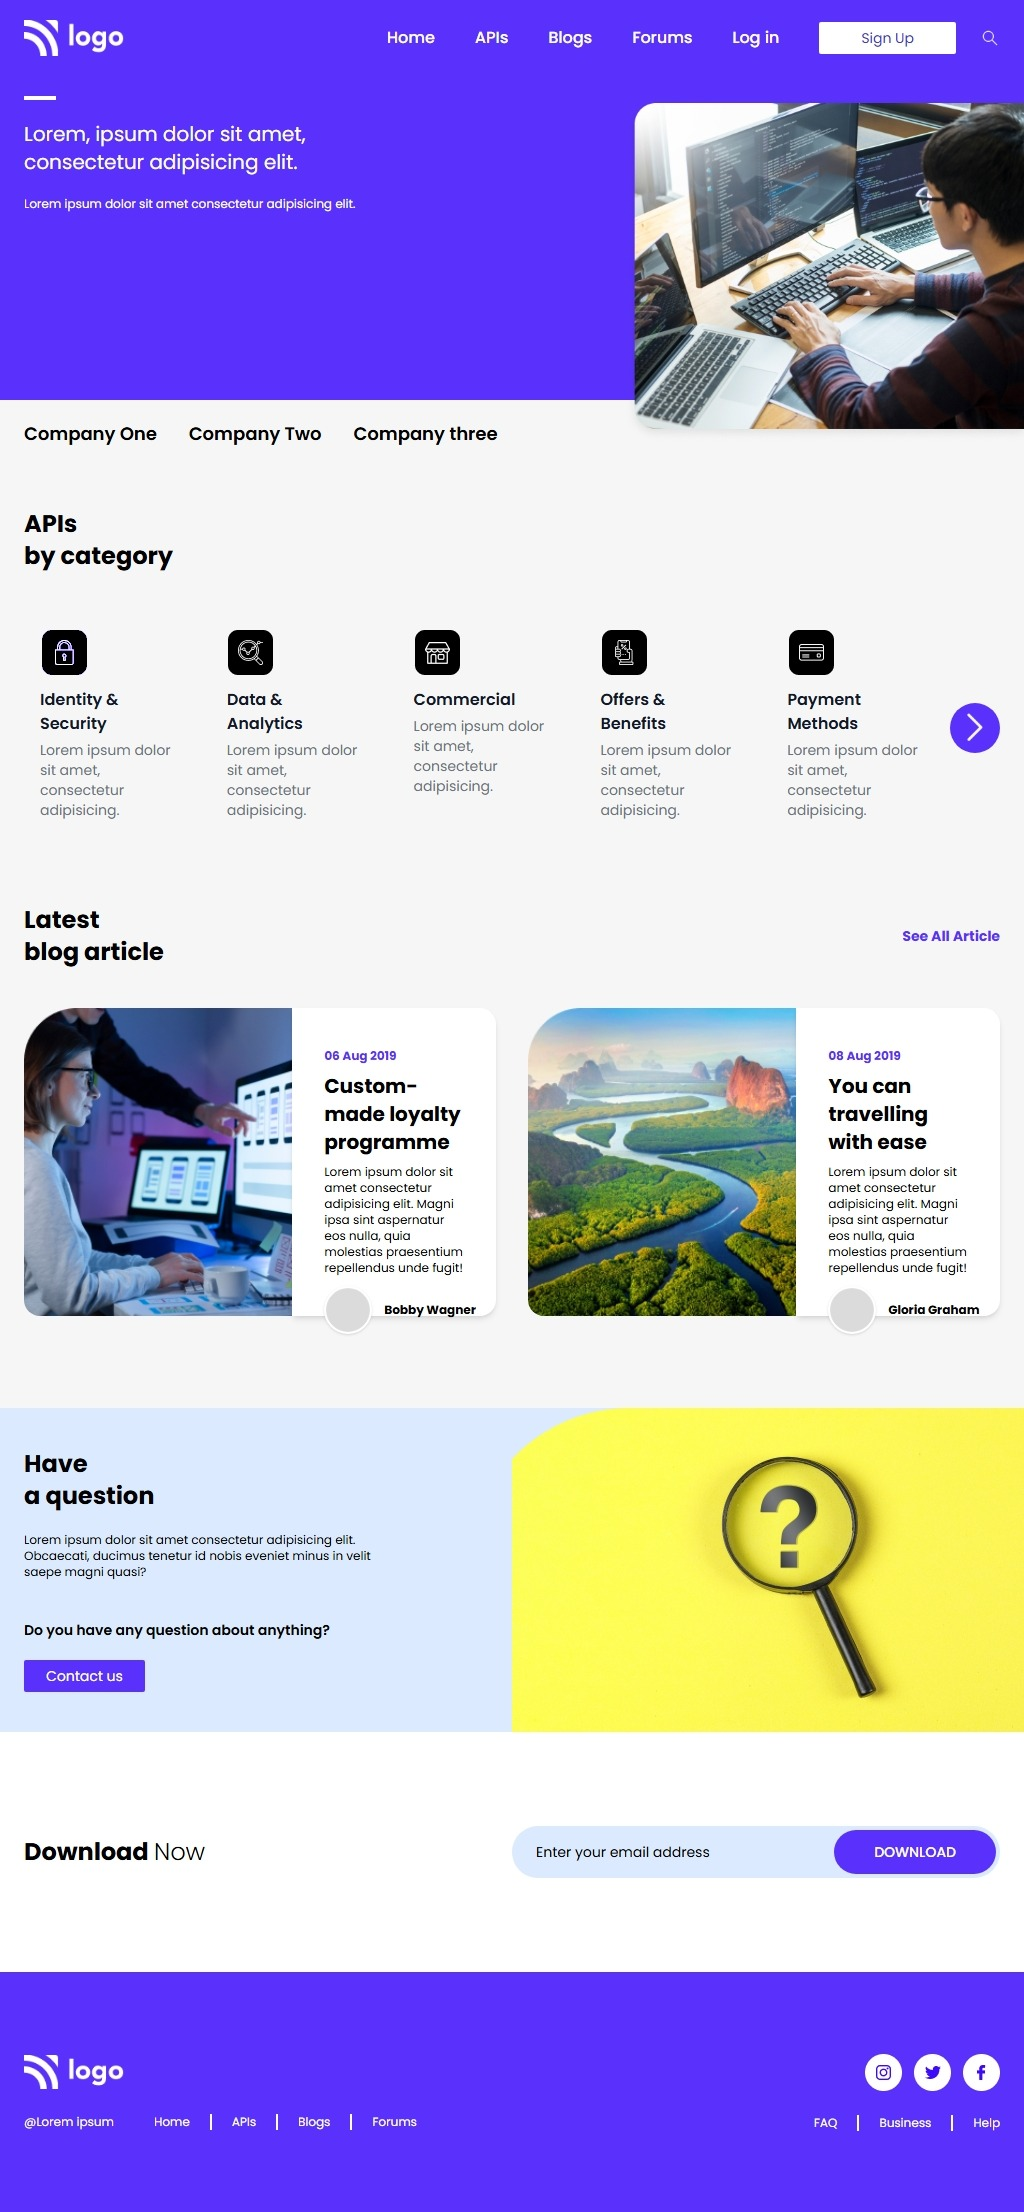
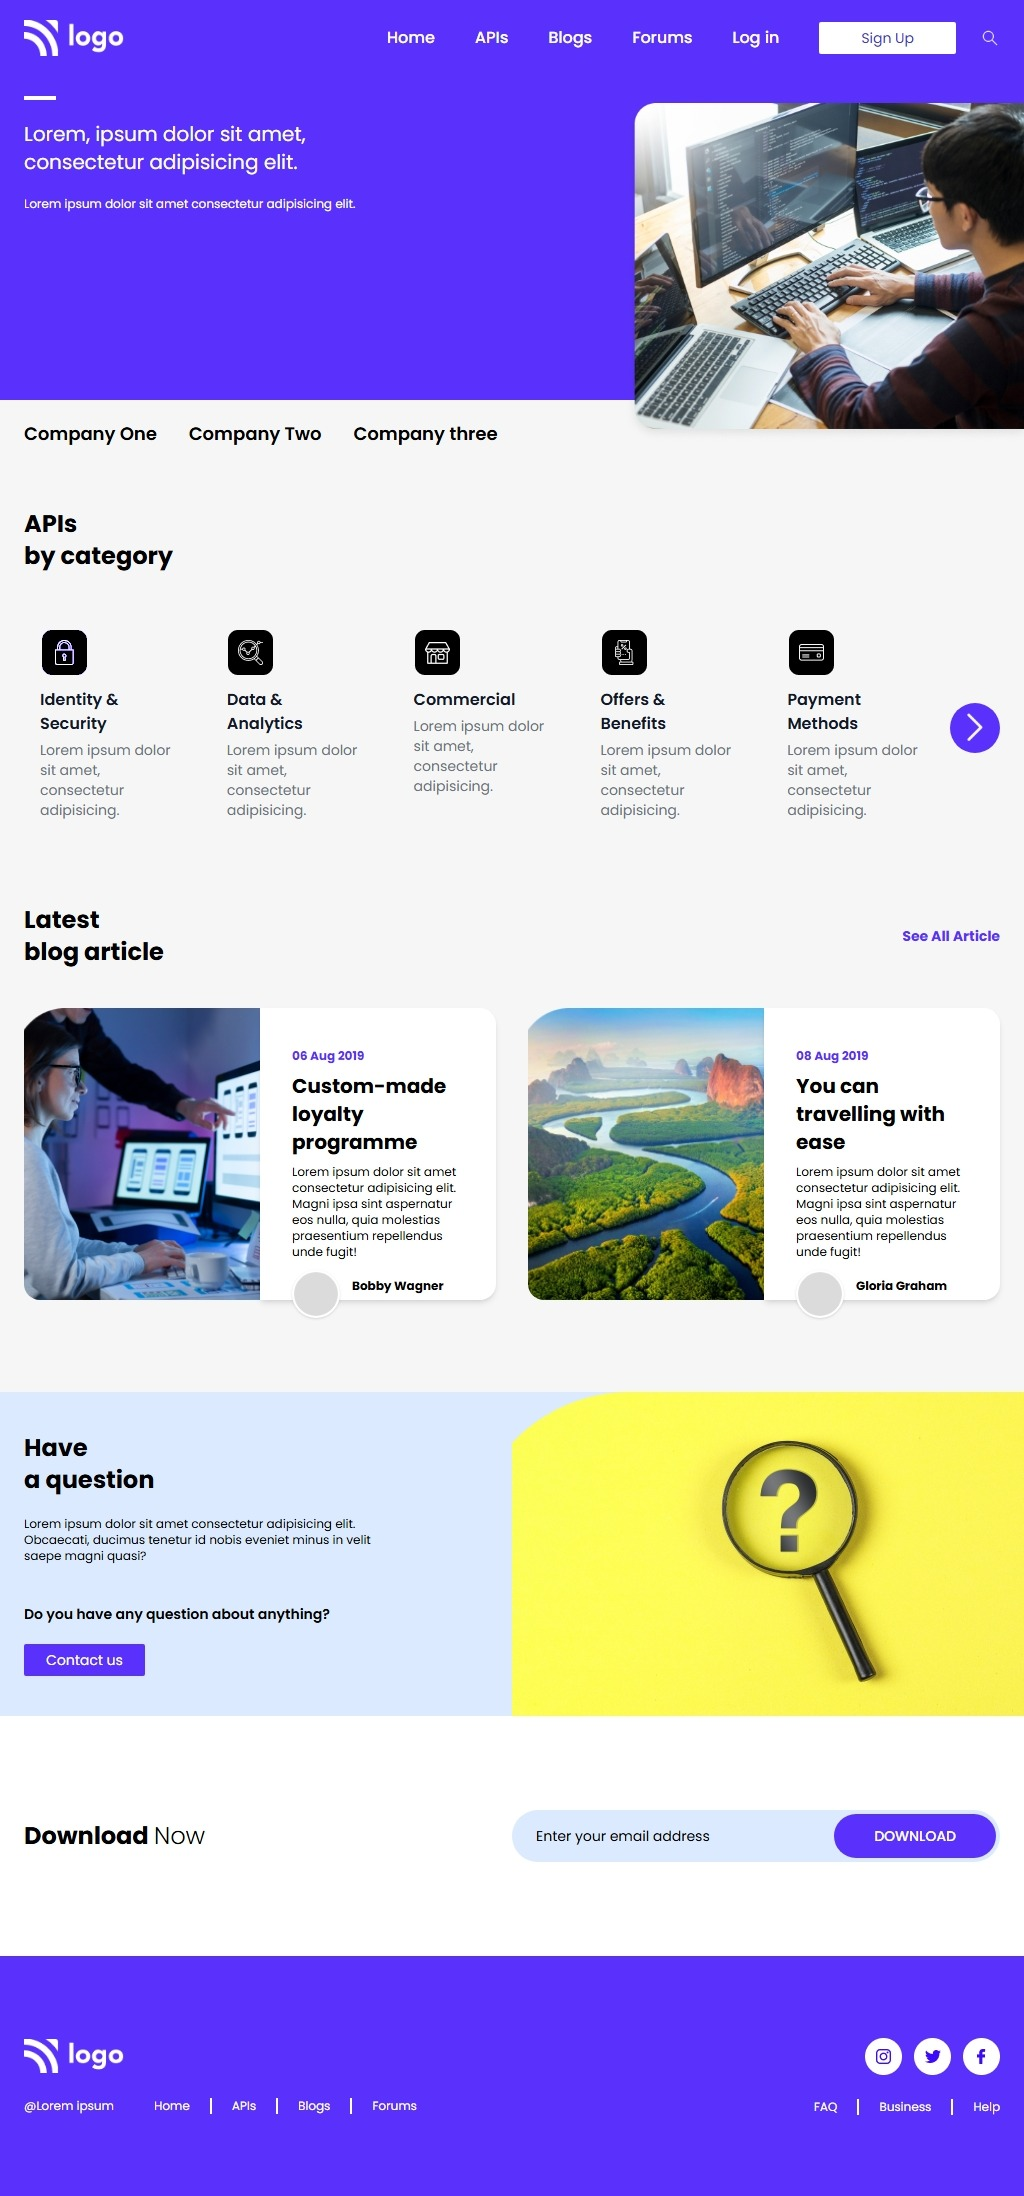
Updated code and screenshots

diff --git a/index.html b/index.html
@@ -197,35 +197,35 @@
             <div class="flex flex-col gap-12 lg:flex-row lg:gap-8">
 
                 <div class="flex flex-col sm:flex-row relative pb-8">
-                    <img src="./images/Rectangle.png" alt="" class="w-full xl:w-1/2 h-60 sm:h-auto object-fill lg:object-cover rounded-t-2xl sm:rounded-l-2xl sm:rounded-tr-none"/>
-                    <div class="bg-white shadow-md rounded-b-2xl sm:rounded-r-2xl sm:rounded-bl-none relative">
+                    <img src="./images/Rectangle.png" alt="" class="w-full lg:w-1/2 h-60 sm:h-auto object-fill lg:object-cover rounded-t-2xl sm:rounded-l-2xl sm:rounded-tr-none"/>
+                    <div class="bg-white shadow-md rounded-b-2xl sm:rounded-r-2xl sm:rounded-bl-none relative lg:w-1/2">
                         <div class="flex flex-col px-6 sm:px-8 xl:px-10 py-6 sm:py-10 h-[220px] lg:h-auto">
                             <span class="font-bold text-customBlue text-xs mb-2">06 Aug 2019</span>
                             <h4 class="font-bold text-lg sm:text-xl mb-2">Custom-made loyalty programme</h4>
                             <p class="text-xs">Lorem ipsum dolor sit amet consectetur adipisicing elit. Magni ipsa sint aspernatur eos nulla, quia molestias praesentium repellendus unde fugit!</p>
                         </div>
-                        <div class="absolute flex items-start lg:items-center gap-3 left-6 sm:left-8 xl:left-10 bottom-[-18px]">
+                        <div class="absolute flex items-start gap-3 left-6 sm:left-8 xl:left-10 bottom-[-18px]">
                             <div class="w-10 h-10 sm:w-12 sm:h-12 rounded-full bg-gray-200 flex-shrink-0 overflow-hidden border-2 border-white shadow">
                                 <img src="./images/IMAGE HERE (2).png" alt="Bobby Wagner" class="w-full h-full object-cover" />
                             </div>
-                            <span class="text-xs font-bold">Bobby Wagner</span>
+                            <span class="text-xs font-bold lg:mt-2">Bobby Wagner</span>
                         </div>
                     </div>
                 </div>
 
                 <div class="flex flex-col sm:flex-row relative pb-8">
-                    <img src="./images/Rectangle Copy.png" alt="" class="w-full xl:w-1/2 h-60 sm:h-auto object-fill lg:object-cover rounded-t-2xl sm:rounded-l-2xl sm:rounded-tr-none"/>
-                    <div class="bg-white shadow-md rounded-b-2xl sm:rounded-r-2xl sm:rounded-bl-none relative">
+                    <img src="./images/Rectangle Copy.png" alt="" class="w-full lg:w-1/2 h-60 sm:h-auto object-fill lg:object-cover rounded-t-2xl sm:rounded-l-2xl sm:rounded-tr-none"/>
+                    <div class="bg-white shadow-md rounded-b-2xl sm:rounded-r-2xl sm:rounded-bl-none lg:w-1/2 relative">
                         <div class="flex flex-col px-6 sm:px-8 xl:px-10 py-6 sm:py-10 h-[220px] lg:h-auto">
                             <span class="font-bold text-customBlue text-xs mb-2">08 Aug 2019</span>
                             <h4 class="font-bold text-lg sm:text-xl mb-2">You can travelling with ease</h4>
                             <p class="text-xs">Lorem ipsum dolor sit amet consectetur adipisicing elit. Magni ipsa sint aspernatur eos nulla, quia molestias praesentium repellendus unde fugit!</p>
                         </div>
-                        <div class="absolute flex items-start lg:items-center gap-3 left-6 sm:left-8 xl:left-10 bottom-[-18px]">
+                        <div class="absolute flex items-start gap-3 left-6 sm:left-8 xl:left-10 bottom-[-18px]">
                             <div class="w-10 h-10 sm:w-12 sm:h-12 rounded-full bg-gray-200 flex-shrink-0 overflow-hidden border-2 border-white shadow">
                                 <img src="./images/IMAGE HERE (2).png" alt="Gloria Graham" class="w-full h-full object-cover" />
                             </div>
-                            <span class="text-xs font-bold">Gloria Graham</span>
+                            <span class="text-xs font-bold lg:mt-2">Gloria Graham</span>
                         </div>
                     </div>
                 </div>
